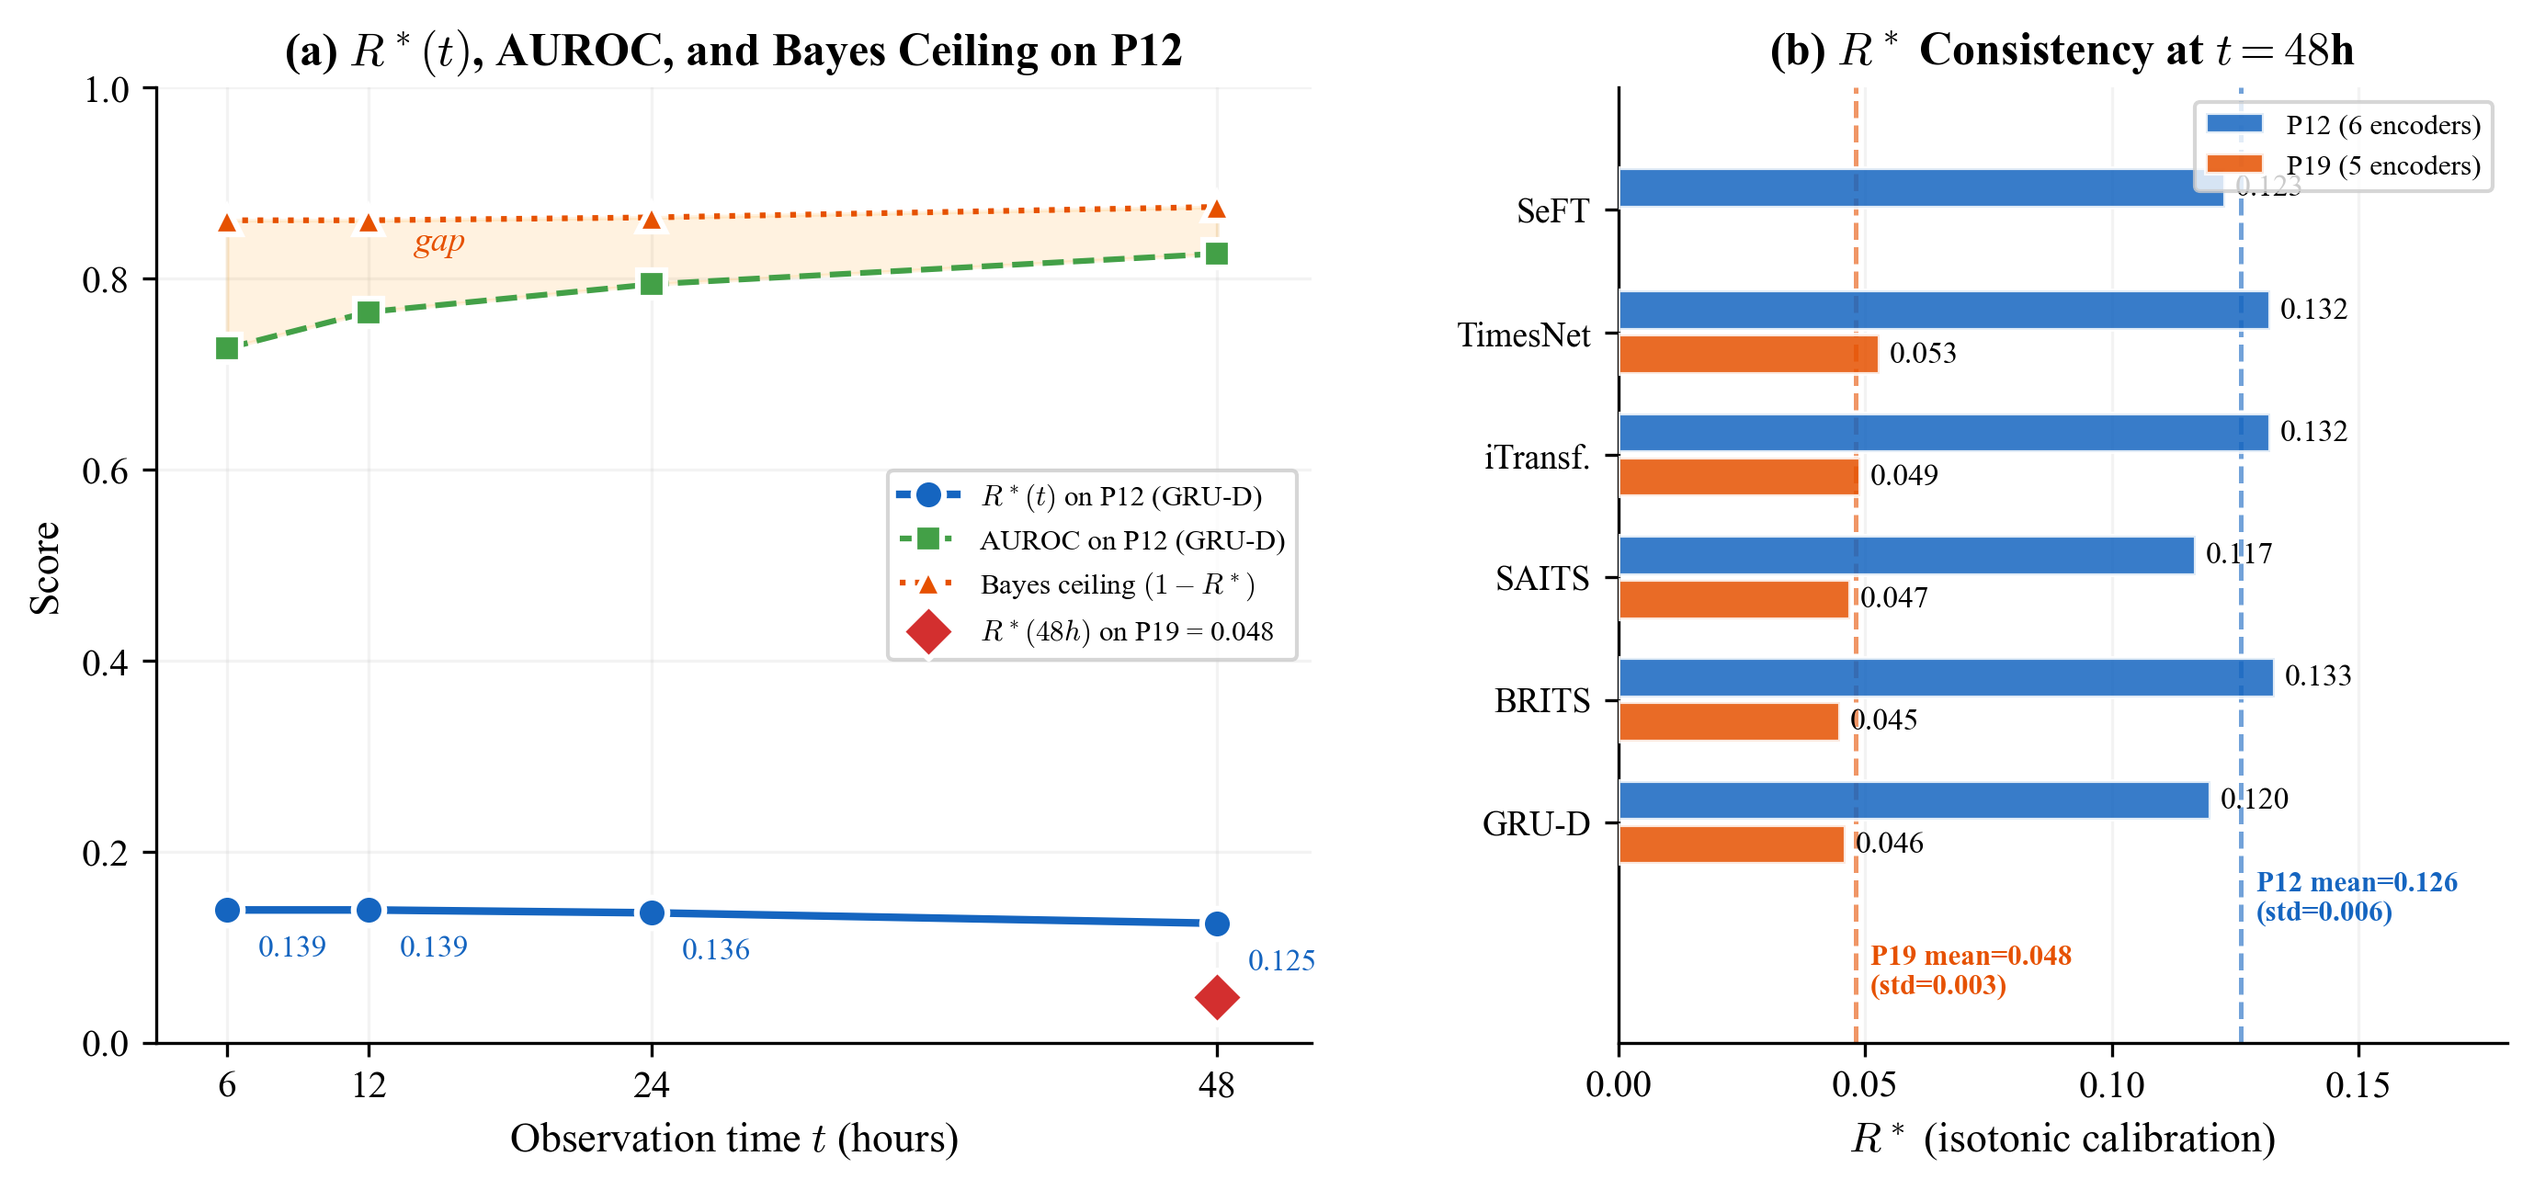
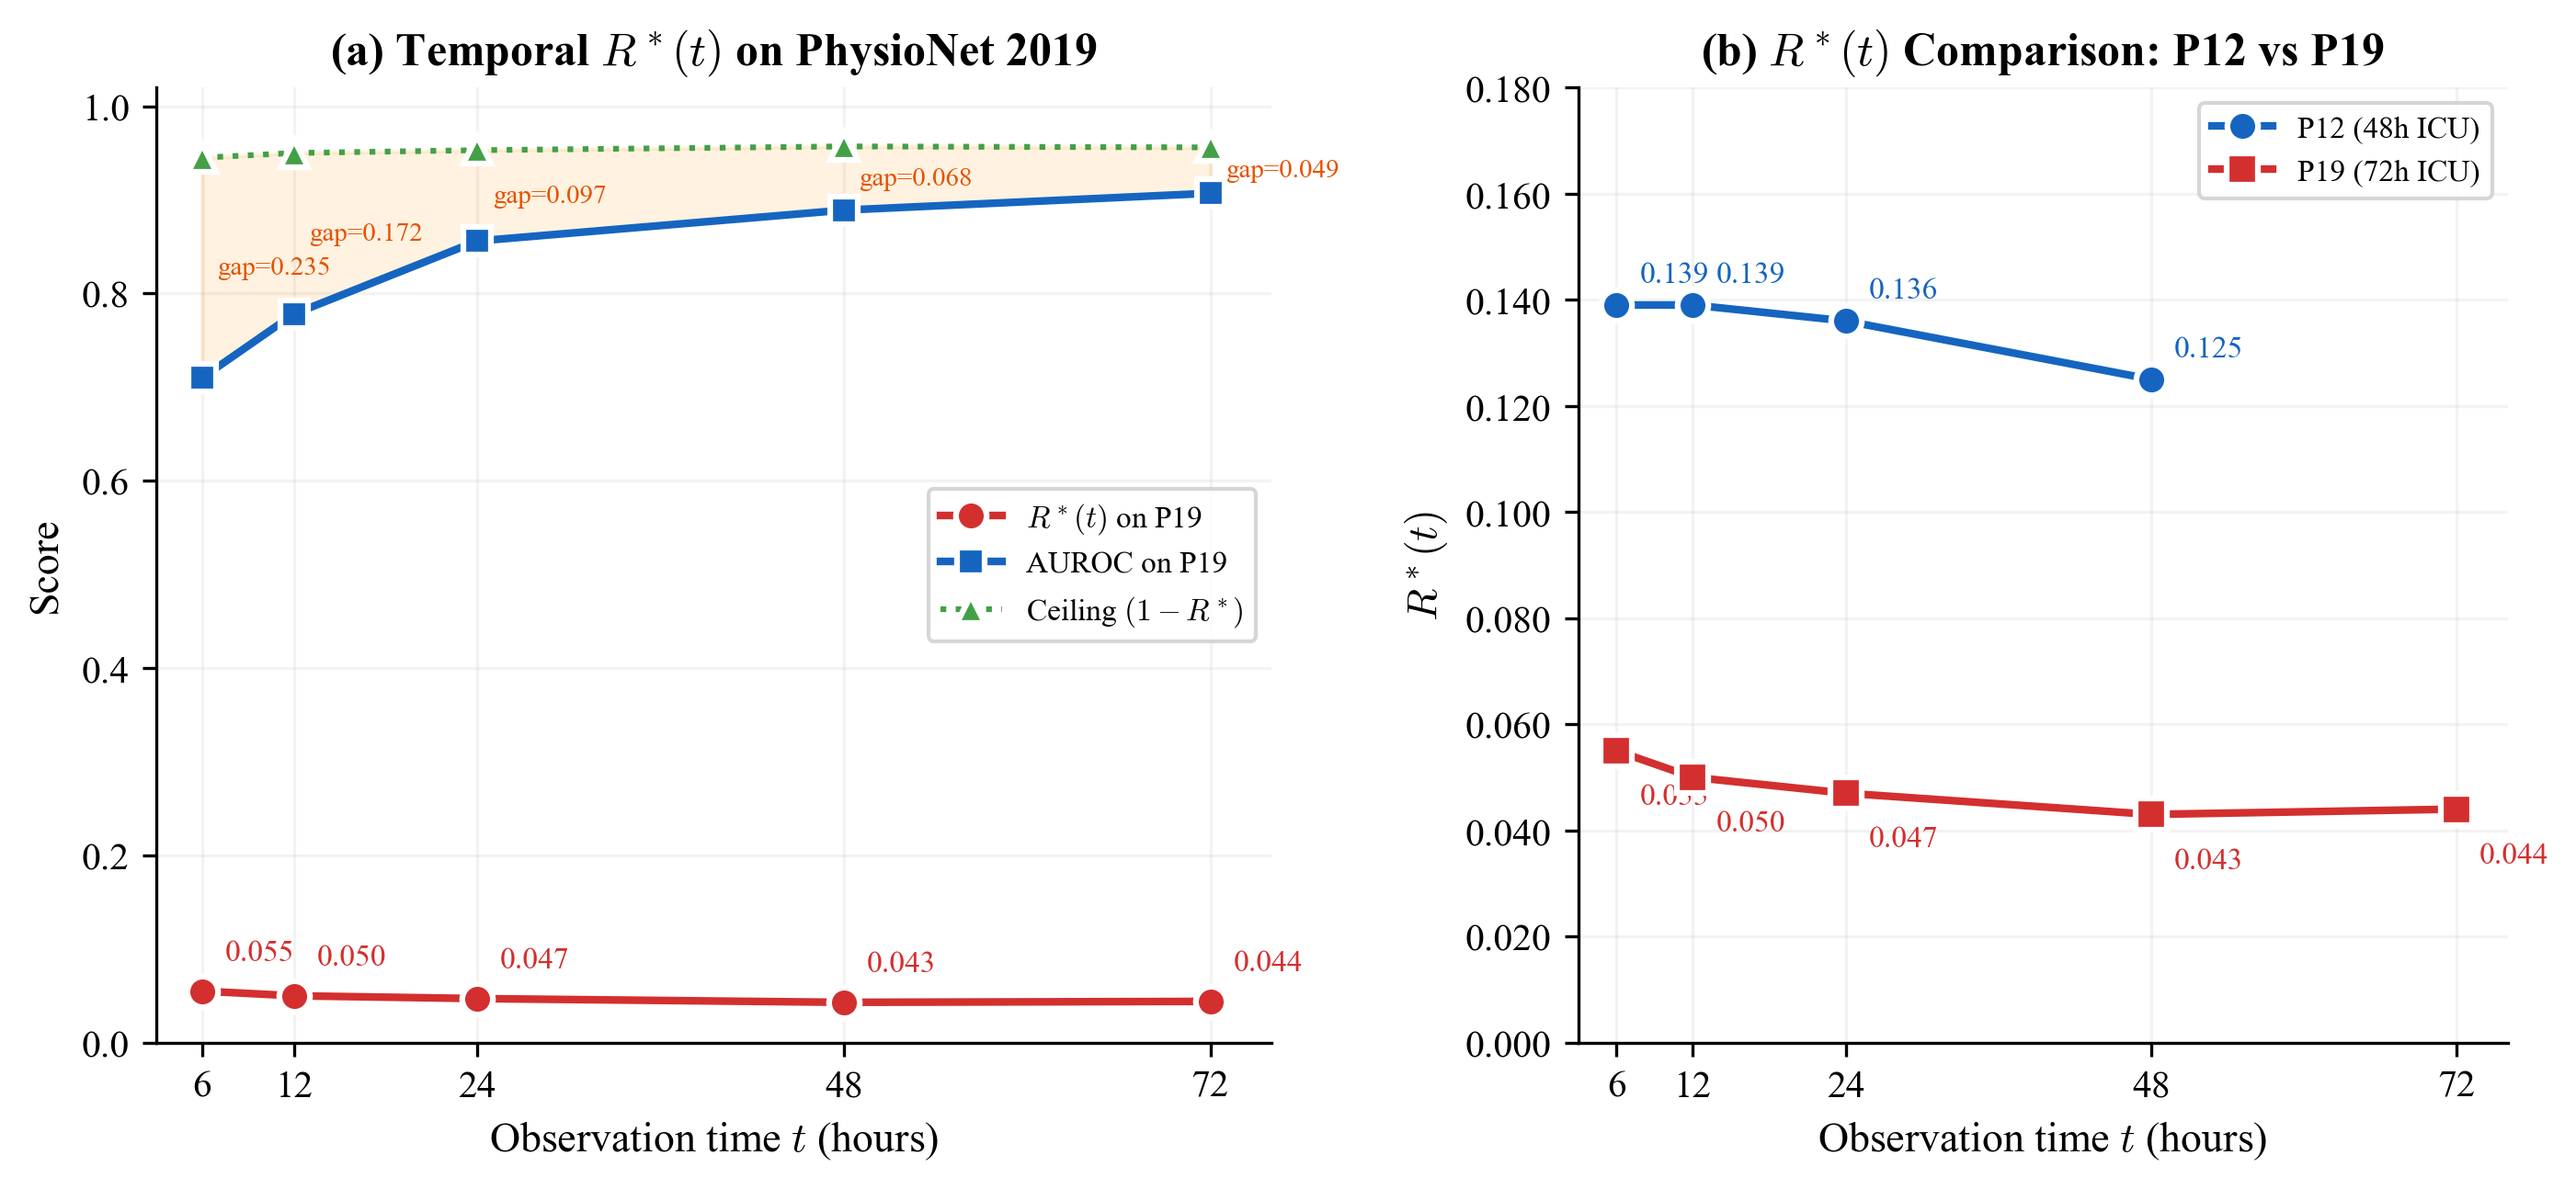
feat: add P19 R*(t) truncation (t=6,12,24,48,72h) - gap drops from 0.236 to 0.050

diff --git a/src/run_truncated_p19.py b/src/run_truncated_p19.py
@@ -1,0 +1,134 @@
+"""
+Run R*(t) truncation experiments on PhysioNet 2019.
+Truncate records at t=6, 12, 24, 48, 72h and estimate R* at each horizon.
+Uses GRU-D (fastest encoder).
+"""
+import os, sys, time, json
+import numpy as np
+sys.path.insert(0, "/root/bayes-pconf-research/src")
+from preprocess_p19 import preprocess_physionet2019
+from sklearn.isotonic import IsotonicRegression
+from sklearn.model_selection import StratifiedKFold
+from sklearn.metrics import accuracy_score, f1_score, roc_auc_score
+from pypots.classification import GRUD
+
+def compute_ece(probs, labels, n_bins=15):
+    bin_boundaries = np.linspace(0, 1, n_bins + 1)
+    ece = 0.0
+    for i in range(n_bins):
+        lo, hi = bin_boundaries[i], bin_boundaries[i + 1]
+        mask = (probs >= lo) & (probs < hi)
+        if mask.sum() == 0:
+            continue
+        avg_conf = probs[mask].mean()
+        avg_acc = labels[mask].mean()
+        ece += mask.sum() * abs(avg_conf - avg_acc)
+    return ece / len(labels)
+
+def isotonic_calibrate_cv(probs, labels, n_classes, n_splits=5):
+    cal_probs = np.copy(probs)
+    skf = StratifiedKFold(n_splits=n_splits, shuffle=True, random_state=42)
+    for train_idx, cal_idx in skf.split(probs, labels):
+        for c in range(n_classes):
+            ir = IsotonicRegression(out_of_bounds="clip")
+            ir.fit(probs[train_idx, c], (labels[train_idx] == c).astype(float))
+            cal_probs[cal_idx, c] = ir.predict(probs[cal_idx, c])
+    row_sums = cal_probs.sum(axis=1, keepdims=True)
+    row_sums[row_sums == 0] = 1
+    cal_probs /= row_sums
+    return cal_probs
+
+def estimate_rstar(cal_probs):
+    eta = cal_probs[:, 1]
+    rstar = 0.5 - 0.5 * np.mean(np.abs(2 * eta - 1))
+    return max(0, rstar)
+
+print("Loading PhysioNet 2019...")
+data = preprocess_physionet2019()
+ns, nf, nc = data["n_steps"], data["n_features"], data["n_classes"]
+print(f"Full data: {ns} steps, {nf} features, {nc} classes")
+print(f"Shapes: train={data['train_X'].shape}, val={data['val_X'].shape}, test={data['test_X'].shape}")
+
+OUTPUT_DIR = "/root/bayes-pconf-research/experiments/truncated_p19"
+os.makedirs(OUTPUT_DIR, exist_ok=True)
+
+horizons = [6, 12, 24, 48, 72]
+all_results = []
+
+for t in horizons:
+    t_steps = min(t, ns)
+    print(f"\n{'='*60}")
+    print(f"  Truncation: t={t}h ({t_steps} steps)")
+    print(f"{'='*60}")
+
+    train_X = data["train_X"][:, :t_steps, :]
+    val_X = data["val_X"][:, :t_steps, :]
+    test_X = data["test_X"][:, :t_steps, :]
+
+    exp_dir = os.path.join(OUTPUT_DIR, f"t{t}")
+    os.makedirs(exp_dir, exist_ok=True)
+
+    model = GRUD(
+        n_steps=t_steps, n_features=nf, n_classes=nc,
+        rnn_hidden_size=64,
+        batch_size=64, epochs=100, patience=10,
+        saving_path=os.path.join(exp_dir, "checkpoints"),
+        model_saving_strategy="best",
+    )
+
+    t0 = time.time()
+    model.fit(
+        {"X": train_X, "y": data["train_y"]},
+        {"X": val_X, "y": data["val_y"]},
+    )
+    train_time = time.time() - t0
+    print(f"  Training time: {train_time:.1f}s")
+
+    results = model.predict({"X": test_X})
+    probs = results.get("classification_proba", None)
+    if probs is None:
+        preds = results["classification"]
+        probs = np.zeros((len(preds), nc))
+        for i, p in enumerate(preds.ravel().astype(int)):
+            probs[i, p] = 0.9
+            probs[i, :] += 0.1 / nc
+
+    test_labels = data["test_y"]
+    pred_labels = np.argmax(probs, axis=1)
+    acc = accuracy_score(test_labels, pred_labels)
+    f1 = f1_score(test_labels, pred_labels, average="macro")
+    auroc = roc_auc_score(test_labels, probs[:, 1])
+
+    cal_probs = isotonic_calibrate_cv(probs, test_labels, nc)
+    rstar = estimate_rstar(cal_probs)
+    ceiling = 1 - rstar
+    ece = compute_ece(cal_probs[:, 1], (test_labels == 1).astype(float))
+
+    metrics = {
+        "truncation_hours": int(t),
+        "n_steps_used": int(t_steps),
+        "accuracy": float(round(acc, 4)),
+        "macro_f1": float(round(f1, 4)),
+        "auroc": float(round(auroc, 4)),
+        "rstar_isotonic": float(round(rstar, 4)),
+        "bayes_ceiling": float(round(ceiling, 4)),
+        "ece_isotonic": float(round(ece, 4)),
+        "train_time_s": float(round(train_time, 1)),
+        "model": "GRUD",
+        "dataset": "p19",
+    }
+
+    with open(os.path.join(exp_dir, "metrics.json"), "w") as f:
+        json.dump(metrics, f, indent=2)
+
+    print(f"  AUROC={auroc:.4f}, Acc={acc:.4f}, R*={rstar:.4f}, Ceiling={ceiling:.4f}")
+    all_results.append(metrics)
+
+with open(os.path.join(OUTPUT_DIR, "summary.json"), "w") as f:
+    json.dump(all_results, f, indent=2)
+
+print("\n\nR*(t) Summary for P19:")
+print(f"{'t':>4s}  {'AUROC':>7s}  {'Acc':>7s}  {'R*':>7s}  {'Ceiling':>7s}  {'Gap':>7s}")
+for r in all_results:
+    gap = r['bayes_ceiling'] - r['auroc']
+    print(f"{r['truncation_hours']:4d}  {r['auroc']:7.4f}  {r['accuracy']:7.4f}  {r['rstar_isotonic']:7.4f}  {r['bayes_ceiling']:7.4f}  {gap:7.4f}")
